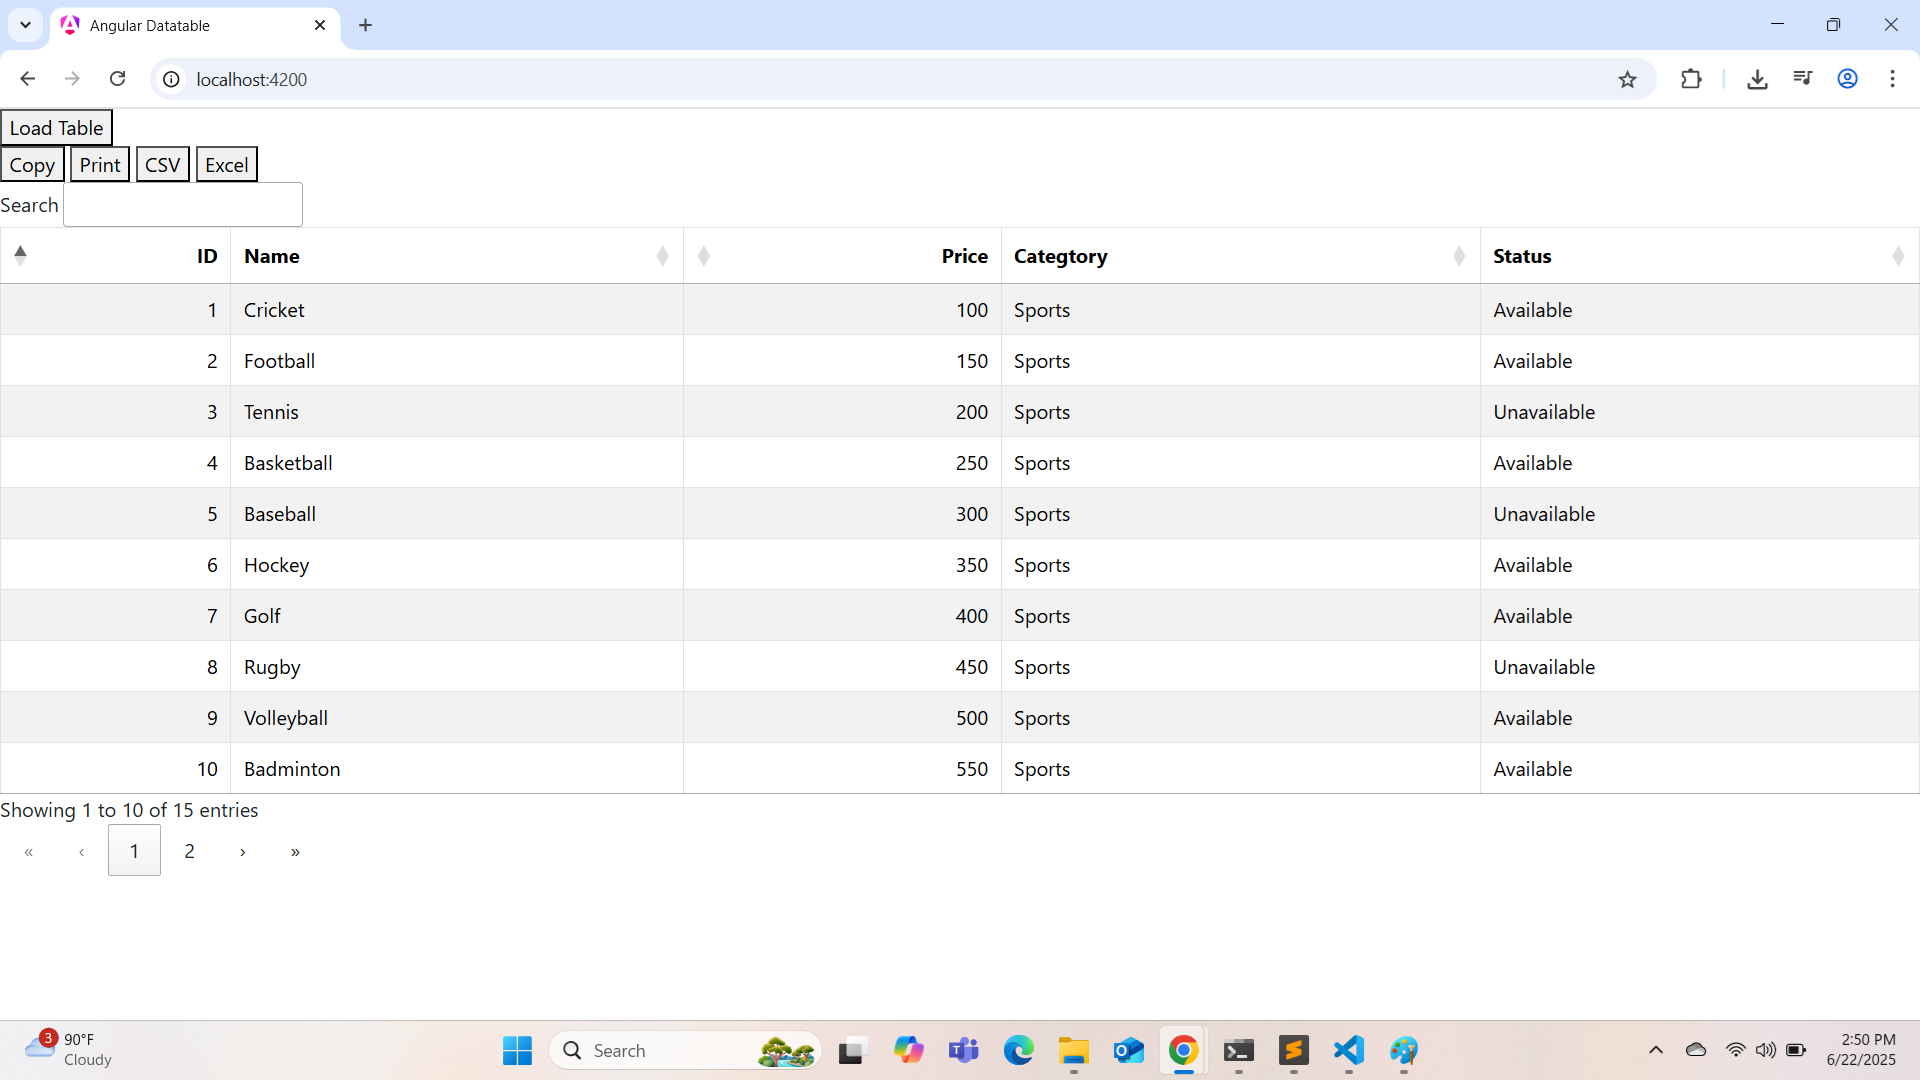
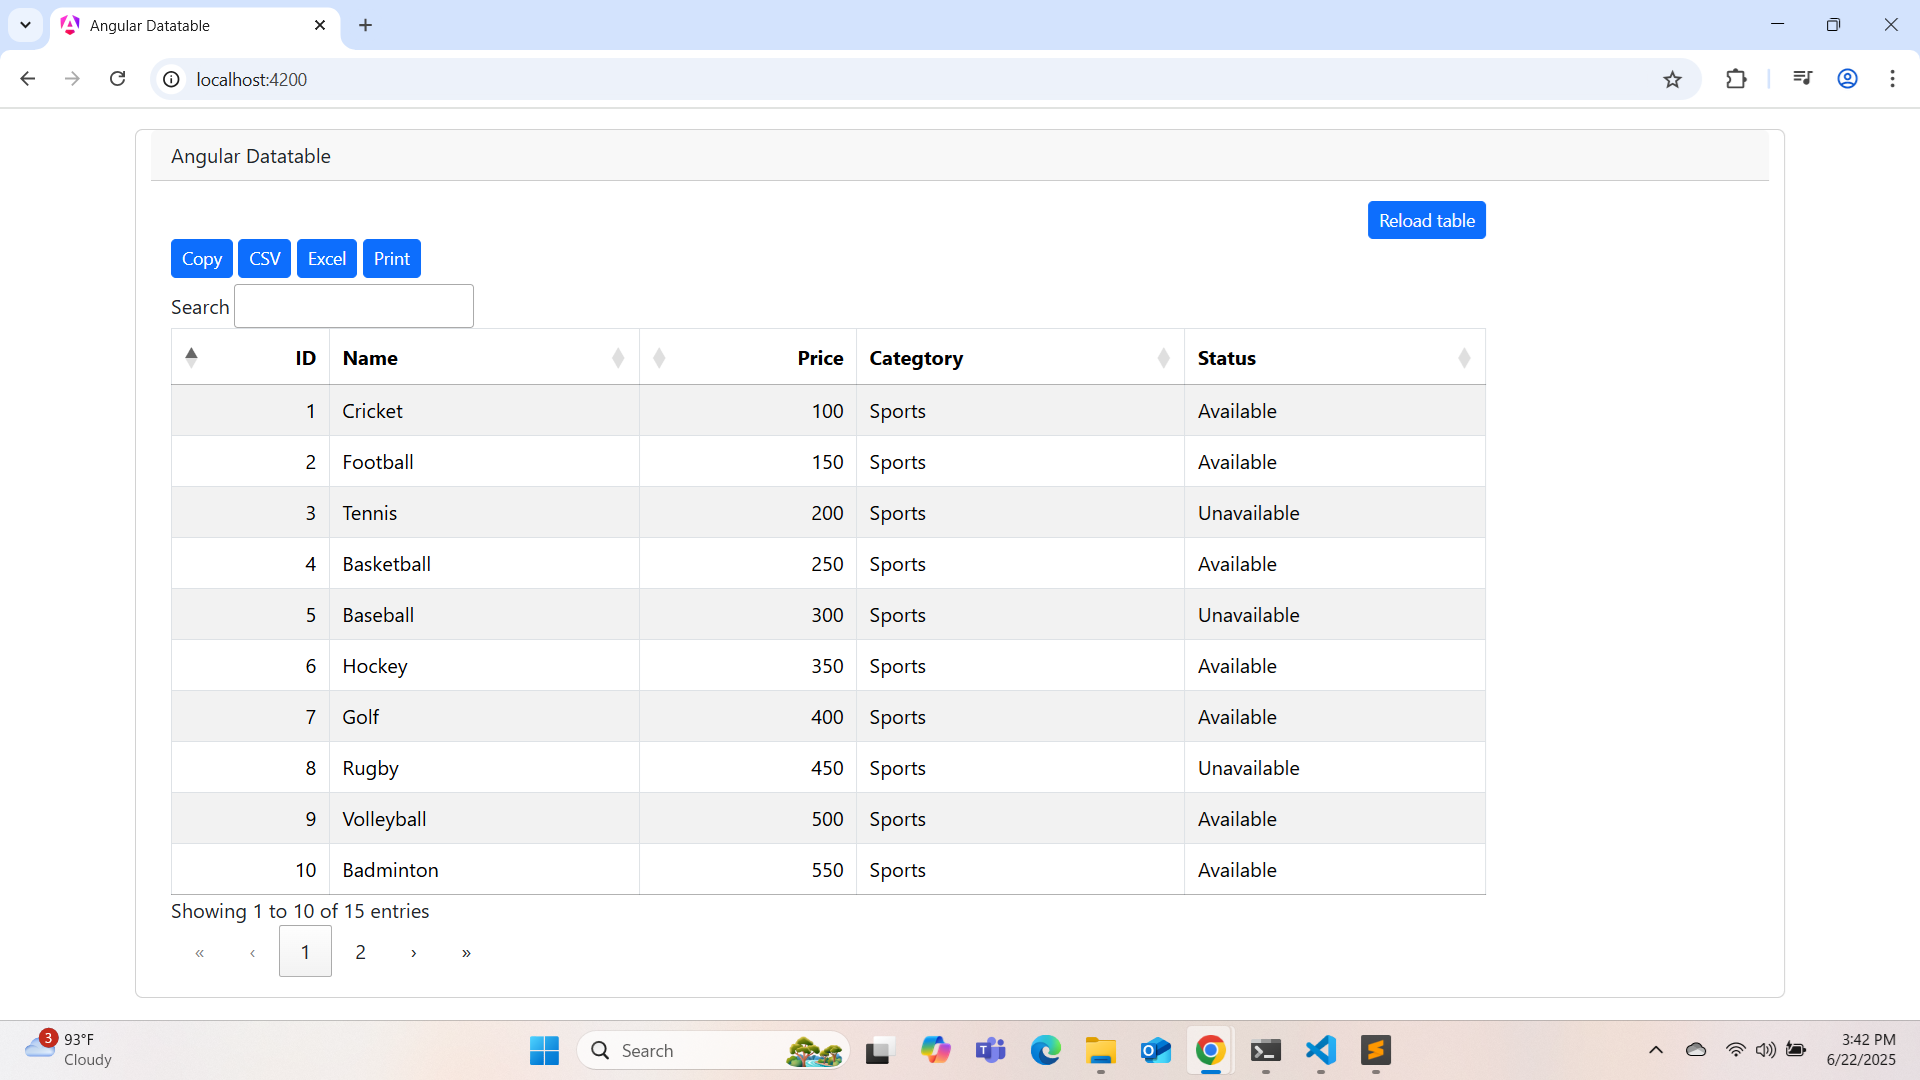
update table button styles

diff --git a/src/app/data.constants.ts b/src/app/data.constants.ts
@@ -127,6 +127,27 @@ export const DATATABLE_CONSTANTS = {
     },
     responsive: true,
     dom: 'Bfrtip',
-    buttons: ['copy', 'print', 'csv', 'excel', 'pdf'],
+    buttons: [
+      {
+        extend: 'copy',
+        className: 'btn btn-primary btn-sm glyphicon glyphicon-duplicate',
+      },
+      {
+        extend: 'csv',
+        className: 'btn btn-primary btn-sm glyphicon glyphicon-save-file',
+      },
+      {
+        extend: 'excel',
+        className: 'btn btn-primary btn-sm glyphicon glyphicon-list-alt',
+      },
+      {
+        extend: 'pdf',
+        className: 'btn btn-primary btn-sm glyphicon glyphicon-file',
+      },
+      {
+        extend: 'print',
+        className: 'btn btn-primary btn-sm glyphicon glyphicon-print',
+      },
+    ],
   },
 };

diff --git a/src/app/app.component.ts b/src/app/app.component.ts
@@ -1,4 +1,4 @@
-import { Component, OnInit } from '@angular/core';
+import { Component, OnInit, ViewEncapsulation } from '@angular/core';
 import { DATATABLE_CONSTANTS } from './data.constants';
 declare var $: any;
 
@@ -17,6 +17,7 @@ export interface Products {
   templateUrl: './app.component.html',
   styleUrl: './app.component.css',
   standalone: false,
+  encapsulation: ViewEncapsulation.None,
 })
 export class AppComponent implements OnInit {
   title = 'angular-datatable';

diff --git a/src/app/app.component.html b/src/app/app.component.html
@@ -1,4 +1,4 @@
-<div class="container">
+<div class="container mt-3">
   <div class="row">
     <div class="card">
       <div class="card-header">Angular Datatable</div>

diff --git a/src/app/app.component.css b/src/app/app.component.css
@@ -1,0 +1,3 @@
+.dt-buttons {
+    margin-bottom: 5px;
+}
